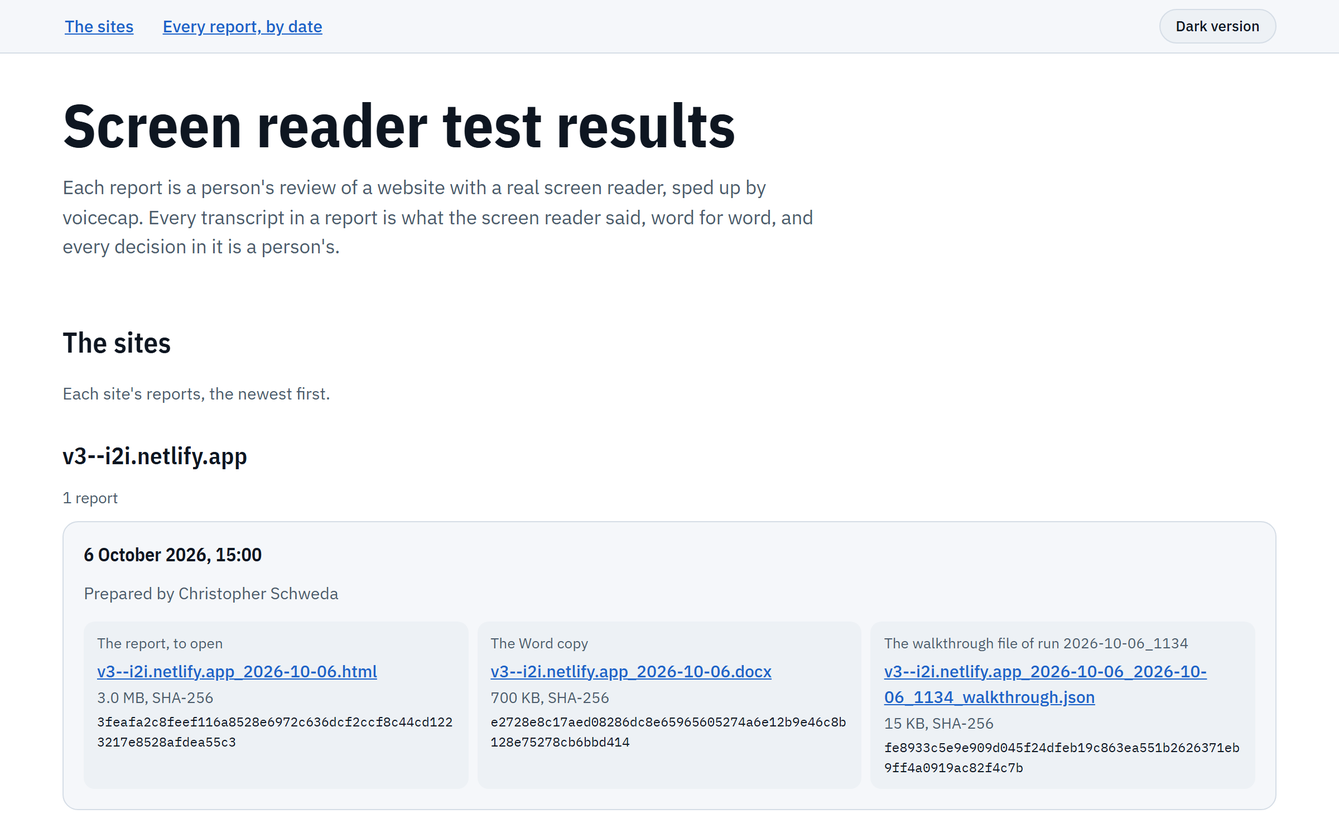
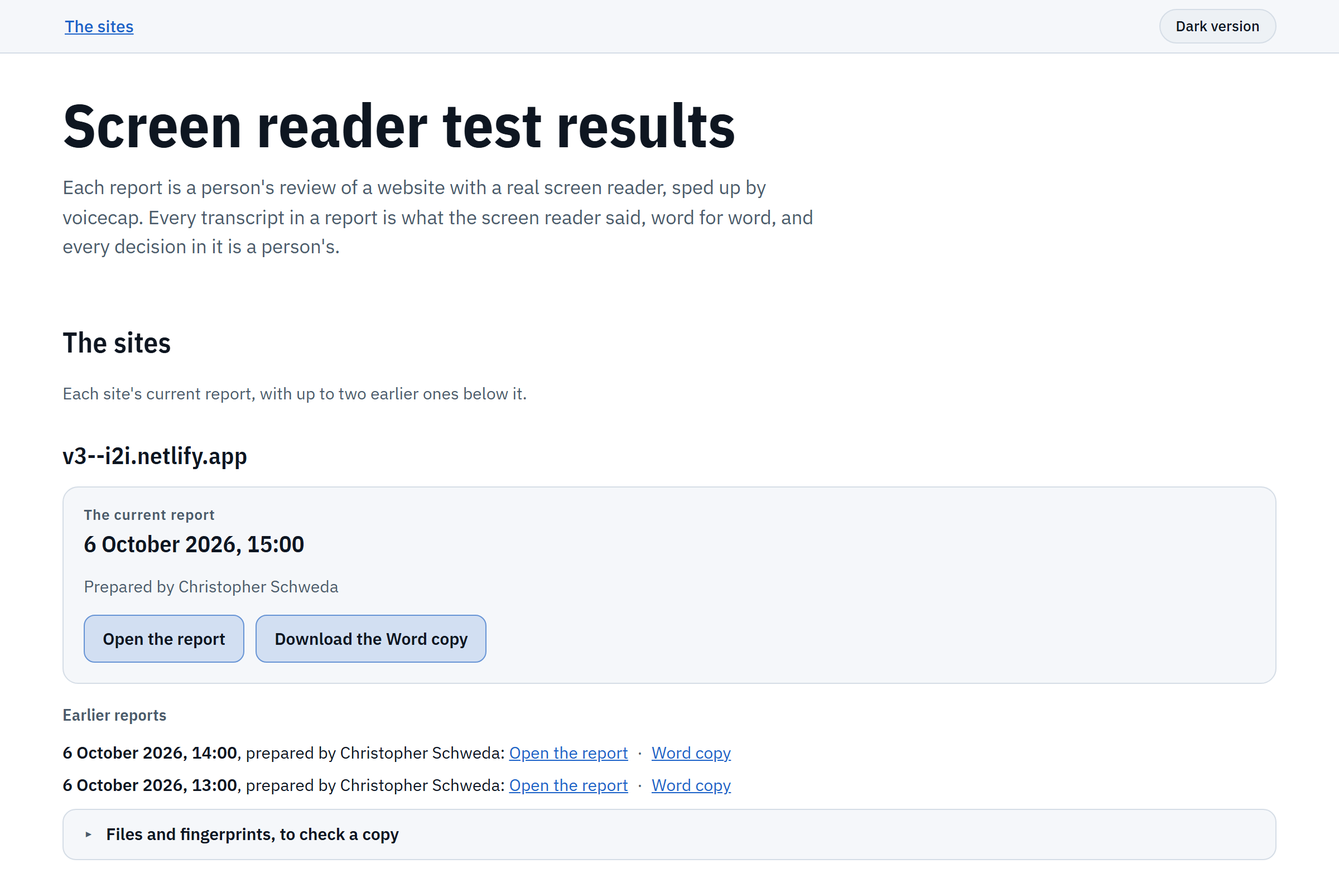
Describe the website's newest three in the README, the spec, and the changelog, and draw its pictures with a current report and two earlier ones

diff --git a/scripts/readme-screenshots.ts b/scripts/readme-screenshots.ts
@@ -19,7 +19,8 @@
  *                            first row with no card for a /biographies/ page (see BIOGRAPHIES)
  *   report-timeline.png      the run's evidence, with its minute-by-minute timeline open
  *   report-fingerprints.png  the fingerprint check, after it has run
- *   website-dark.png         the website's bar, through the site's report under "The sites", dark
+ *   website-dark.png         the website's bar, through the site under "The sites": its current
+ *                            report, its two earlier ones, and its fold of files, closed, dark
  *   website-light.png        the same, light
  *
  * No shot may show an IP address or `localhost`: before each one is taken, the text inside the part
@@ -30,9 +31,9 @@
  *
  * It draws with Playwright's Chromium (`pnpm exec playwright install chromium`, once). Run it again
  * when the page's or the site's design changes, and commit what it writes. The README links to each
- * file on GitHub, so npm's copy of the README shows them too. The six of the report come out the
- * same every time. The two of the website don't: each run makes the Word copy again, whose bytes
- * differ (it records when it was made), and the website shows its fingerprint.
+ * file on GitHub, so npm's copy of the README shows them too. All eight come out the same every
+ * time. Each run makes the Word copies again, whose bytes differ (each records when it was made),
+ * but the website shows their fingerprints only in its fold of files, which is closed in its shots.
  */
 import { copyFile, cp, mkdir, mkdtemp, rm } from "node:fs/promises";
 import os from "node:os";
@@ -58,12 +59,18 @@ export const SCREENSHOTS_DIR = path.join(ROOT, "assets", "screenshots");
 export const SOURCE_HOME = path.join(ROOT, "fixture", "i2i-v3-run");
 /**
  * When the pictures show the report as shared: 6 October 2026 at 15:00, a local time, so it's that
- * day anywhere, after the run ended (at 12:32). It's fixed: every share the script makes has it, so
- * the six pictures of the report come out the same each time. The two of the website still differ
- * with each run, since the Word copy's fingerprint does (see above). It isn't when anyone really
- * shared the report.
+ * day anywhere, after the run ended (at 12:32). It's fixed, so the pictures come out the same each
+ * time. It isn't when anyone really shared the report. It's the last of the script's three shares
+ * (see SHARED_BEFORE), so the shared page is the third of the day, named "-3": no picture of the
+ * report shows its name.
  */
 const SHARED_ON = new Date(2026, 9, 6, 15, 0);
+/**
+ * The two shares before it, at 13:00 and 14:00 that day, so that the website shows what a site that
+ * has been shared a few times shows: its current report, and two earlier ones, a line each. They're
+ * fixed too, and aren't when anyone really shared the report.
+ */
+const SHARED_BEFORE = [new Date(2026, 9, 6, 13, 0), new Date(2026, 9, 6, 14, 0)];
 /** Who shares it: the person who ran the review, as the run's record names them. */
 const SHARED_BY = "Christopher Schweda";
 
@@ -130,9 +137,10 @@ function shareConfig(): LoadedConfig {
 
 /**
  * A transcripts home with the report of the run in `source` shared in it, as a person would share
- * it: a copy of `source` (a home with one site's folder, which isn't changed), and the share made in
- * the copy's site folder. A site whose run recorded no canonical address and was read at an IP
- * address isn't shared: voicecap refuses it. Returns the home and the shared page's path.
+ * it: a copy of `source` (a home with one site's folder, which isn't changed), and three shares made
+ * in the copy's site folder, at SHARED_BEFORE's times and then at SHARED_ON. A site whose run
+ * recorded no canonical address and was read at an IP address isn't shared: voicecap refuses it.
+ * Returns the home and the path of the last share's page, which the shots of the report are of.
  */
 export async function sharedHome(
   root: string,
@@ -140,16 +148,19 @@ export async function sharedHome(
 ): Promise<{ home: string; page: string }> {
   const home = path.join(root, "transcripts");
   await cp(source, home, { recursive: true });
-  const shared = await shareReport({
-    out: home,
-    reviewer: SHARED_BY,
-    now: SHARED_ON,
-    config: shareConfig(),
-    logger: silentLogger,
-    // The folder the home is in has no config, and no environment is read.
-    cwd: root,
-    env: {},
-  });
+  const share = (now: Date) =>
+    shareReport({
+      out: home,
+      reviewer: SHARED_BY,
+      now,
+      config: shareConfig(),
+      logger: silentLogger,
+      // The folder the home is in has no config, and no environment is read.
+      cwd: root,
+      env: {},
+    });
+  for (const now of SHARED_BEFORE) await share(now);
+  const shared = await share(SHARED_ON);
   const page = shared.files.find((file) => file.name.endsWith(".html"));
   if (page === undefined) throw new Error("voicecap share wrote no page.");
   return { home, page: page.path };

diff --git a/README.md b/README.md
@@ -56,7 +56,7 @@ voicecap speeds up that second half. It presses NVDA's keys the way a person wou
 - **Every page on the list, three ways.** voicecap goes line by line, heading by heading, and control by control, as a blind visitor moves through a page. No page on the list is missed or done twice.
 - **A person's review, on the record.** What the person found and fixed is recorded beside the transcripts, with their own hands-on NVDA sessions.
 - **A record anyone can check.** Each transcript has a fingerprint and each finished run is sealed, so `voicecap verify` flags any recorded file that has changed (see [Checking the record](#checking-the-record-voicecap-verify)).
-- **Results for people who never open a terminal.** There's a plain-language web page and its Word copy, dated copies to send with their fingerprints, and a website of every shared report (see [The shareable page](#the-shareable-page)).
+- **Results for people who never open a terminal.** There's a plain-language web page and its Word copy, dated copies to send with their fingerprints, and a website that leads with each site's current report (see [The shareable page](#the-shareable-page)).
 - **Repeatable.** Comparing two runs shows what changed after an update. A walkthrough file repeats a run, with the same pages in the same order and the same passes, then says page by page how each page sounds against the original (see [Repeating a run](#repeating-a-run-the-walkthrough-file)).
 
 To see it at work before you use it on your own site, try the guided demo on a Windows PC (see [Try it first](#try-it-first-npx-icjiavoicecap-demo)).
@@ -1432,7 +1432,7 @@ To paste into the email that sends the page and its Word copy:
 
 **It needs a name, and a run that counts.** It takes the name of who is sharing as `review` does: `--reviewer`, then `VOICECAP_REVIEWER`, then `git config user.name`, then `reviewer` in the config. With none, it stops. It also stops when no completed, sealed, live run is there to show (a replayed, interrupted, or unsealed run doesn't count: see [The shareable page](#the-shareable-page)), and when it can't read `shares.json`. In each case it writes nothing and exits with code 1, and it never overwrites a `shares.json` it can't use.
 
-**It needs the site's name, too.** A share is recorded for good, and the website publishes every one, so `voicecap share` won't name a site by an IP address or a local address. When a site has no canonical address (see [A site's name: its canonical address](#a-sites-name-its-canonical-address)) and voicecap read it at such an address, as on a copy at `localhost`, the share stops before it writes anything, exits with code 1, and says how to name it:
+**It needs the site's name, too.** A share is recorded for good, and the website publishes each site's newest three, so `voicecap share` won't name a site by an IP address or a local address. When a site has no canonical address (see [A site's name: its canonical address](#a-sites-name-its-canonical-address)) and voicecap read it at such an address, as on a copy at `localhost`, the share stops before it writes anything, exits with code 1, and says how to name it:
 
 ```
 Error: voicecap won't share a site by an IP address or a local address (127.0.0.1:4848). Give it the address people visit: set report.canonical in a voicecap config in a folder of the site's own, and share from that folder; or run it again with --canonical <address>.
@@ -1459,7 +1459,7 @@ The dated copies, the walkthrough files, and `shares.json` go into Git with the 
 
 ## The website: `voicecap site`
 
-`voicecap site` builds a website of every report voicecap has shared, by site and by date, with the demo. It gives people one address to open, in place of a file to send. Netlify can build it from the transcripts home's repository every time the repository is pushed. voicecap's own repository stays code only.
+`voicecap site` builds a website of the reports voicecap has shared: each site's current report, with the two before it, and the demo's. It gives people one address to open, in place of a file to send. Netlify can build it from the transcripts home's repository every time the repository is pushed. voicecap's own repository stays code only.
 
 ```bash
 npx @icjia/voicecap site [--home <dir>] [--out <dir>]
@@ -1467,17 +1467,19 @@ npx @icjia/voicecap site [--home <dir>] [--out <dir>]
 
 `--home` is the transcripts home, and `--out` is the folder to build the site in: `_site` in the home, by default. Here `--out` isn't the home, as it is in the other commands (see [Other commands](#other-commands)). The command needs no screen reader.
 
-**What's on the site,** in three views, with a bar of links to them:
+**What's on the site,** in up to three views, with a bar of links to them:
 
 - **The demo:** voicecap's report on its own small demo site, as an example of what it makes. It's there only when the home has a share of the demo (see [Publishing it, and the demo](#publishing-it-and-the-demo)). Its lead links to the demo's own pages, the ones NVDA read. Every build publishes them in `demo-site/`, so on ICJIA's site they're at [voicecap.netlify.app/demo-site/](https://voicecap.netlify.app/demo-site/), the demo's canonical address.
-- **The sites:** each site, headed by its canonical name (such as `dvfr.illinois.gov`, from its newest share), with its reports, the newest first. Folders whose shares name one site are one site, with their reports together. A site whose shares name no canonical address is headed by its folder's name (see [A site's name: its canonical address](#a-sites-name-its-canonical-address)). When that name is an IP address or a local address, as for a copy's folder shared before 0.10.0, the build still publishes the site, and warns, such as `127.0.0.1_4848: headed by its folder's name, an IP address or a local address. Share it again with its canonical address (see report.canonical) to name it.` A new share names it, and from then on the site is headed by its canonical name.
-- **Every report, by date:** every site's reports, the newest first, each with its site's name and a link to its page. The demo isn't in it: it's an example, not a site.
+- **The sites:** each site, headed by its canonical name (such as `dvfr.illinois.gov`, from its newest share), with its newest three reports, the newest first. Folders whose shares name one site are one site, with their reports together. A site whose shares name no canonical address is headed by its folder's name (see [A site's name: its canonical address](#a-sites-name-its-canonical-address)). When that name is an IP address or a local address, as for a copy's folder shared before 0.10.0, the build still publishes the site, and warns, such as `127.0.0.1_4848: headed by its folder's name, an IP address or a local address. Share it again with its canonical address (see report.canonical) to name it.` A new share names it, and from then on the site is headed by its canonical name.
+- **Every report, by date:** every site's reports, the newest first, each with its site's name and a link to its page. It's there only when two sites or more have reports: with one, it would be that site's own list again. The demo isn't in it: it's an example, not a site.
 
-Each report shows when it was shared and who prepared it, then its files: the page, to open; and its Word copy and the walkthrough file of each run it draws on, to download. Each file shows its size and its SHA-256 fingerprint, as `shares.json` recorded them. To check a copy against its fingerprint, run `Get-FileHash <file>` in PowerShell, or `shasum -a 256 <file>` on a Mac. A report shared before voicecap shared walkthrough files says that none was shared with it.
+**A site leads with its current report,** its newest: when it was shared, who prepared it, and two links, to open its page and to download its Word copy. A manager who opens the site finds what they came for first. Under it, the site's earlier reports, two at most, are a line each, with the same two links. A screen reader hears each link with the site's name and the report's date after its words, such as "Open the report of dvfr.illinois.gov, 3 October 2026, 14:05", so no two links on the page sound alike.
 
-Here is the top of the site for the i2i report, in the dark theme it opens in, then in the light one a reader can pick. The bar links to "The sites" and "Every report, by date", and holds the button that switches themes. (It links to "The demo" too, when the home has a share of the demo.) Under "The sites" is `v3--i2i.netlify.app`, with its one report, shown as shared on 6 October 2026 at 15:00 and prepared by Christopher Schweda. (That day and time are fixed: the script that makes these pictures gives every share the same ones, so the six pictures of the report come out the same each time. These two pictures of the website still differ with each run, since the Word copy's fingerprint does. The day and time aren't taken from when the report was really shared.) The report lists its page to open, its Word copy, and the walkthrough file of the one run it draws on, each with its size and SHA-256 fingerprint.
+**Every file, with its fingerprint, is in a fold,** closed, under the site's reports: "Files and fingerprints, to check a copy". It's for whoever checks a copy. For each report, it lists the page, the Word copy, and the walkthrough file of each run the report draws on, each with its size and its SHA-256 fingerprint, as `shares.json` recorded them. To check a copy against its fingerprint, run `Get-FileHash <file>` in PowerShell, or `shasum -a 256 <file>` on a Mac. A report shared before voicecap shared walkthrough files says that none was shared with it.
 
-![The website in its dark theme, from its bar through the i2i report under "The sites": the bar's links (The sites, Every report, by date) and its "Light version" button, the heading "Screen reader test results", the site v3--i2i.netlify.app with "1 report", and the report, "6 October 2026, 15:00" (a fixed time that the script that makes the picture gives every share), prepared by Christopher Schweda, with its three files (the report, its Word copy, and the run's walkthrough file), each with its size and fingerprint.](https://raw.githubusercontent.com/ICJIA/voicecap/main/assets/screenshots/website-dark.png)
+Here is the top of the site for the i2i report, in the dark theme it opens in, then in the light one a reader can pick. The bar links to "The sites", and holds the button that switches themes. (It links to "The demo" too, when the home has a share of the demo, and to "Every report, by date" when two sites or more have reports.) Under "The sites" is `v3--i2i.netlify.app`. Its current report was shared on 6 October 2026 at 15:00 by Christopher Schweda, with its two buttons, "Open the report" and "Download the Word copy". Under it are its two earlier reports, shared at 14:00 and 13:00, a line each, and last the fold of files and fingerprints, closed. (Those times are fixed: the script that makes these pictures shares the report three times that day, at the same times each run, so all eight pictures come out the same each time. They aren't when the report was really shared.)
+
+![The website in its dark theme, from its bar through the i2i site under "The sites": the bar's one link (The sites) and its "Light version" button; the heading "Screen reader test results" and its lead; the sites' lead, "Each site's current report, with up to two earlier ones below it."; the site v3--i2i.netlify.app; a panel labeled "The current report", "6 October 2026, 15:00" (a fixed time that the script that makes the picture gives that share), "Prepared by Christopher Schweda", and two buttons, "Open the report" and "Download the Word copy"; "Earlier reports", with two lines, "6 October 2026, 14:00, prepared by Christopher Schweda: Open the report · Word copy" and the same at 13:00; and a closed fold, "Files and fingerprints, to check a copy".](https://raw.githubusercontent.com/ICJIA/voicecap/main/assets/screenshots/website-dark.png)
 
 ![The same part of the website in its light theme, after the reader picks "Light version". The button now reads "Dark version".](https://raw.githubusercontent.com/ICJIA/voicecap/main/assets/screenshots/website-light.png)
 
@@ -1485,7 +1487,7 @@ The site's page follows the shareable page's rules. It's one self-contained file
 
 **Everything on the website is public to anyone with its address.** Anyone can open each report, and download each Word copy and walkthrough file. `robots.txt` and a header ask search engines to keep the site out of their results, but that's a request, not a lock. Keep the transcripts repository private: the website holds only what was shared, and the repository holds much more. Read "Before you send it", under [The shareable page](#the-shareable-page), and share only what you'd put on a public page.
 
-**A share is never deleted, so the site shows every one,** as long as its record is intact. voicecap has no command that takes a report off the site.
+**The site shows each site's newest three shares,** as long as their records are intact. The current report is what matters, and a long list of older ones would bury it. A share is never deleted: its entry and its files stay in the transcripts home, and `voicecap verify` still checks them. Only the website leaves an older one out. Its files aren't published, and the address of its page sends a reader on to the site's current report, so a link to it in an email still leads somewhere (see `_redirects`, under [The files it writes, and the headers](#the-files-it-writes-and-the-headers)). voicecap has no command that takes a report off the site.
 
 ### What the build reads, and what it leaves out
 
@@ -1494,14 +1496,16 @@ The site's page follows the shareable page's rules. It's one self-contained file
 
 **What it reads:** only the record of what was shared. That's each site folder's `share/shares.json`, and the latest share in the home's `voicecap-demo/` folder, which it publishes under `demo/`. It never reads a run. Beside the records, it copies the demo site's own pages from voicecap itself, into `demo-site/` (see [The files it writes, and the headers](#the-files-it-writes-and-the-headers)).
 
-**What it publishes:** each file that an entry names, when the entry's seal still holds and the file is still a regular file whose size and SHA-256 are the recorded ones. It copies the file byte for byte, so a file on the site is exactly the file that was shared, and its fingerprint matches.
+**What it publishes:** each file that an entry names, when the entry is one of its site's newest three, its seal still holds, and the file is still a regular file whose size and SHA-256 are the recorded ones. It copies the file byte for byte, so a file on the site is exactly the file that was shared, and its fingerprint matches.
+
+**A site's older shares,** beyond its newest three, aren't published, and their files aren't read. That's no warning. The build says it as what it did, such as `dvfr.illinois.gov: 2 older reports aren't on the site, which shows each site's newest 3.` The newest three are counted across all of a site's folders.
 
 **What it leaves out, and names.** Each is a warning in the build's output, such as `Warning: dvfr.illinois.gov/share/dvfr.illinois.gov_2026-10-02.docx: not published: the file is missing`. The build still finishes, with exit code 0, so one changed file doesn't stop every later update.
 
 - **An entry whose seal no longer holds,** or whose fields aren't what voicecap records, and a `shares.json` that can't be read. The site shows nothing of it. Only the build's output names it.
 - **A copy that has changed since it was shared, is missing, can't be read, or isn't a regular file** (a link or a folder, say). The report's other files are still published, and under the report the site says that `<name> isn't here`, and why.
 - **A name voicecap never gives.** Only files whose names end in a lower-case `.html`, `.docx`, or `.json` are published, and only when they and their folder are named as voicecap names them: letters, digits, `.`, `_`, and `-` (lower case for a site's folder), with no dot at the start or end of a file's name. A file named `index.html` is left out too, since Netlify would serve it at its site folder's own address, where it would have no Content Security Policy. A name that holds a path, such as `../notes.txt`, is never read.
-- **A site folder named `demo`,** which would take the demo's place on the site. One named `demo-site`, `index.html`, `robots.txt`, or `_headers` is left out too: it would take the place of the site's own folder or file.
+- **A site folder named `demo`,** which would take the demo's place on the site. One named `demo-site`, `index.html`, `robots.txt`, `_headers`, or `_redirects` is left out too: it would take the place of the site's own folder or file.
 - **A `voicecap-demo` that isn't a folder.** Git for Windows checks a committed link out as a plain file, so a file can be where the folder should be. The site is built without a demo.
 
 **The folder it builds into** is emptied first, so voicecap builds only into a folder it can be sure of. That's a folder that's new or empty, or one an earlier build made: its `_headers` starts with voicecap's own line.
@@ -1532,6 +1536,7 @@ Error: voicecap site won't build into C:\Users\cschw\code\voicecap-transcripts\n
   - Each of the demo's own pages gets a policy of its own, at every address it answers at: `default-src 'none'; style-src 'self'; img-src 'self' data:; form-action 'self'; base-uri 'none'; frame-ancestors 'none'`. The pages have a style sheet beside them and a form that goes to a page of their own, and no script.
   - Each Word copy and walkthrough file gets `Content-Disposition: attachment`, so a browser downloads it.
   - Its first line, `# Made by voicecap site. Each build empties this folder and writes it again.`, is how a later build knows the folder is one it made.
+- **`_redirects`:** Netlify's file of redirects. The page of each share the site no longer shows (each site's shares beyond its newest three) sends its reader on to the site's current report, with a 302: at the page's own address, and at the same without `.html`, which is how Netlify serves a page too. A browser doesn't keep a 302, as it would a 301, so the next build can send the address on to a newer report. When the current report's page isn't published, it sends them to the site's front page instead. Netlify follows a rule only where no file is published, so an address a newer share publishes is never sent on. The file's first line is a comment that says what it's for, and when every share is on the site, it's the only line.
 
 **In the home,** the first time, and never again. `voicecap site` never writes over any of these files, so they're yours once they're there:
 
@@ -1919,7 +1924,7 @@ The run's records have new, optional fields from 0.10.0, which leave code that r
 
 The run's records have more new, optional fields from 0.11.0, which leave code that reads them as it was: `RunJson.files`, the files a run records beside its pages' (today, `events.jsonl`, the event log), each a `FileHash`; `PageRecord.screenshot`, a `ScreenshotRecord`, which is the screenshot file's `FileHash` with `takenAt`, `width`, and `height`, or `{ error, takenAt }` when none could be taken; and `AttemptRecord.program`, for a `foreground` failure, the name of the program that took the screen, or `null`. A custom driver can add to the event log and take screenshots through three new, optional members, so one that leaves them out works as before: `ScreenReaderDriver.setEventRecorder(recorder)`, which a run calls with an `EventRecorder` (its `record(event, at)` takes a `NewRunEvent`, and, optionally, `at`, the `Date` it happened, for an event recorded after the fact: the log stamps it with `at` in place of the time it's recorded) before it first starts the driver; `PageInfo.screenshot`, a `PageScreenshot` (`{ jpeg }`, or `{ error }`) that `openPage` gives for a page it has loaded; and `ForegroundError`'s optional `program`, given as `{ program }` in its second argument. The types `RunEvent`, `NewRunEvent`, `RestartReason`, `EventRecorder`, `PageScreenshot`, and `ScreenshotRecord` are exported.
 
-`buildSite` builds the website as `voicecap site` does (see [The website: `voicecap site`](#the-website-voicecap-site)). It takes `home`, the transcripts home (default: `VOICECAP_TRANSCRIPTS`, else `./transcripts`), and `out`, the folder to build in (default: `_site` in the home), plus `cwd`, `env`, and `logger`, and says what it wrote and what it left out to its `logger` as the command does. It gives back `out`, the full path of the folder it built in; `content`, what it published, as a `SiteContent`; and `leftOut`, each thing it left out, worded as the build's output words it. A `SiteContent` has `demo`, a `PublishedReport` or `null`, and `sites`, each with its `name` (the heading the site shows: its canonical name, or its folder's name), its `folders` (the site folders its reports are in, more than one when folders name one site), and its `reports`, the newest first. A site had a `folder` in place of `name` and `folders`, so it's a compile-time change for code that reads one: `name` is the heading, and each of `folders` is where files are. A `PublishedReport` has its `folder`, `id` (its anchor on the page), `at`, `by`, its `files`, and `notPublished`: the files its record names that aren't published, each with its `name` and a `reason`, `"changed"` or `"missing"`. A `PublishedFile` has its `kind` (`"page"`, `"word"`, `"walkthrough"`, or `"other"`), `name`, `href`, `bytes`, `sha256`, and `run` (the run a walkthrough file is of, else `null`). A copy that has changed, or is missing, doesn't make it throw: it's left out, and named in `leftOut`. It throws a `UsageError`, before anything is changed, when the home isn't a folder, and when the folder to build in is one it mustn't empty. The types `BuildSiteOptions`, `BuildSiteResult`, `SiteContent`, `PublishedReport`, and `PublishedFile` are exported.
+`buildSite` builds the website as `voicecap site` does (see [The website: `voicecap site`](#the-website-voicecap-site)). It takes `home`, the transcripts home (default: `VOICECAP_TRANSCRIPTS`, else `./transcripts`), and `out`, the folder to build in (default: `_site` in the home), plus `cwd`, `env`, and `logger`, and says what it wrote and what it left out to its `logger` as the command does. It gives back `out`, the full path of the folder it built in; `content`, what it published, as a `SiteContent`; and `leftOut`, each thing it left out, worded as the build's output words it. A `SiteContent` has `demo`, a `PublishedReport` or `null`, and `sites`, each with its `name` (the heading the site shows: its canonical name, or its folder's name), its `folders` (the site folders its reports are in, more than one when folders name one site), and its `reports`: those it published, its newest three, the newest first. A site had a `folder` in place of `name` and `folders`, so it's a compile-time change for code that reads one: `name` is the heading, and each of `folders` is where files are. A `PublishedReport` has its `folder`, `id` (its anchor on the page), `at`, `by`, its `files`, and `notPublished`: the files its record names that aren't published, each with its `name` and a `reason`, `"changed"` or `"missing"`. A `PublishedFile` has its `kind` (`"page"`, `"word"`, `"walkthrough"`, or `"other"`), `name`, `href`, `bytes`, `sha256`, and `run` (the run a walkthrough file is of, else `null`). A copy that has changed, or is missing, doesn't make it throw: it's left out, and named in `leftOut`. It throws a `UsageError`, before anything is changed, when the home isn't a folder, and when the folder to build in is one it mustn't empty. The types `BuildSiteOptions`, `BuildSiteResult`, `SiteContent`, `PublishedReport`, and `PublishedFile` are exported.
 
 `writeWalkthrough` writes a run's walkthrough file as `voicecap walkthrough` does (see [Repeating a run: the walkthrough file](#repeating-a-run-the-walkthrough-file)), and never overwrites one. It takes `file`, plus `site`, `run`, and `out`, and `logger`, and says what it wrote to its `logger` as the command does. It gives back `file`, the full path it wrote; `runId`; and `walkthrough`, what the file holds. It throws a `UsageError`, with nothing written, when the site has no completed run, when the run named isn't there or didn't complete, when voicecap's own reader would refuse the file, and when something is at `file` already. `runAudit`'s `walkthrough` is the path of a walkthrough file to repeat: the pages, passes, step limits, capture mode, and readiness settings come from it (the config's readiness settings, when the file has none), `site` becomes optional, and `sitemap`, `pages`, `pageUrls`, `limit`, `include`, `exclude`, `passes`, and `maxSteps` are refused with it. `parseWalkthrough(text, file)` reads a walkthrough file's text as a repeat does, strictly, and gives back a `Walkthrough`, or throws a `UsageError` that names the file (`file` is its name, for that message) and says what's wrong. `walkthroughOf(run)` builds the `Walkthrough` of a completed run's record, `walkthroughJson(walkthrough)` is the text a file holds, and `walkthroughProblem(walkthrough)` is why `parseWalkthrough` would refuse a `Walkthrough`, or `null`. The types `Walkthrough`, `WalkthroughPage`, `WalkthroughSettings`, `WalkthroughOrigin`, `WriteWalkthroughOptions`, and `WriteWalkthroughResult` are exported.
 
@@ -2004,7 +2009,7 @@ Guidepup changes its API across versions and releases often, so voicecap pins `@
 | `pnpm fixture:reviews` | Rebuilds `fixture/reviews.json` from the recorded run. |
 | `pnpm share:fixture <folder>` | Writes the demo's shareable page and its Word copy into a folder, to look at a change to either. The demo is named by its canonical address, as a share of it is. Needs no screen reader. |
 | `pnpm site:fixture <folder>` | Builds the website from the demo fixture, to look at a change to it: makes a transcripts home with reports shared in it at `<folder>/home` (which must not be there yet), builds the site in `<folder>/_site`, and prints the path of its `index.html`. Needs no screen reader. |
-| `pnpm readme:screenshots [folder]` | Makes the README's eight screenshots, of the shareable page for the i2i v3 run of 6 October 2026 (kept in `fixture/i2i-v3-run`) and of the website built from its report, in `assets/screenshots` (or the folder given), from a temporary home. The report is shown as shared on a fixed day and time, 6 October 2026 at 15:00, which the script gives every share so that the six pictures of the report come out the same each time; the two of the website still differ with each run, since the Word copy's fingerprint does. The day and time aren't taken from when the report was really shared. Needs Playwright's Chromium, and no screen reader. It refuses to write a shot that shows an IP address or `localhost`. Run it when the page's or the site's design changes, and commit what it writes. |
+| `pnpm readme:screenshots [folder]` | Makes the README's eight screenshots, of the shareable page for the i2i v3 run of 6 October 2026 (kept in `fixture/i2i-v3-run`) and of the website built from its report, in `assets/screenshots` (or the folder given), from a temporary home. The report is shown as shared three times on a fixed day, 6 October 2026, at 13:00, 14:00, and 15:00, so that the website shows a current report and two earlier ones, and all eight pictures come out the same each time. The day and times aren't taken from when the report was really shared. Needs Playwright's Chromium, and no screen reader. It refuses to write a shot that shows an IP address or `localhost`. Run it when the page's or the site's design changes, and commit what it writes. |
 
 `fixture/` holds the test site (with a deliberately flawed page and a page that tests end-of-page detection), sitemaps, page lists (including CRLF and Windows-1252 CSVs), a sample `reviews.json`, a real Speech Viewer capture, an NVDA log excerpt, a run recorded with real NVDA that the replay driver plays back, and the i2i v3 run that the README's screenshots are made from; see `fixture/README.md`. CI runs lint, type checks, and tests on Ubuntu, macOS, and Windows (the tests use the replay driver and Playwright's Chromium; the real-NVDA checks run locally with `pnpm test:nvda`).
 

diff --git a/docs/superpowers/specs/2026-09-30-shareable-report-design.md b/docs/superpowers/specs/2026-09-30-shareable-report-design.md
@@ -451,22 +451,26 @@ In the site's folder of the transcripts home:
 
 ## The website
 
-A public site the owner can point anyone to, https://voicecap.netlify.app (approved 2026-09-30, as `icjia-voicecap.netlify.app`; named `voicecap` at the first deploy, 2026-10-04): every report voicecap has shared, by site and by date, with the demo. It's ICJIA's own site, not a setting for everyone who downloads voicecap. Netlify builds it from ICJIA's transcripts repository (github.com/ICJIA/voicecap-transcripts, private), the transcripts home, on every push. voicecap's own repository stays code only.
+A public site the owner can point anyone to, https://voicecap.netlify.app (approved 2026-09-30, as `icjia-voicecap.netlify.app`; named `voicecap` at the first deploy, 2026-10-04): each site's newest reports voicecap has shared, with the demo. It's ICJIA's own site, not a setting for everyone who downloads voicecap. Netlify builds it from ICJIA's transcripts repository (github.com/ICJIA/voicecap-transcripts, private), the transcripts home, on every push. voicecap's own repository stays code only.
 
 - **What's on it:**
   - the demo's latest report, as an example of what voicecap makes;
-  - each site, with its newest report on top and its earlier ones below;
-  - every report by date, across sites.
-
-  Each report lists its date, who prepared it, and its files: the page to open, and the Word copy and the walkthrough file to download, so anyone can repeat the run exactly (see "Repeating a walkthrough"). Each file shows its size and SHA-256 fingerprint, a second place to check a copy against.
+  - each site, with its current report on top, its earlier ones below, and their files in a fold;
+  - every report by date, across sites, when two sites or more have reports. With one, it would be that site's own list again.
 
   Each site is headed by its canonical name, from its newest share's `site` (see "Canonical names"), and the list by date names it the same way. Site folders whose shares name the same site, such as a copy on a tester's computer and the site itself, are one site there, their reports together, the newest first. A share from before 0.10.0 names its site by its folder.
+- **Each site's newest three shares, and no more** (amended 2026-10-07, for 0.12.2, at the owner's request: "the only report that matters is the current one", "the most recent 3 is all that's needed", and "condense them so it's not so visually overwhelming"). The site showed every share, each with all its files and fingerprints in full, so a manager met a wall of file names before anything they came for.
+  - **The current report,** a site's newest, leads: a heading that says it's the current report, with its date; who prepared it; and two links, styled as buttons, to open its page and to download its Word copy. A screen reader hears the site's name and the report's date after each link's words ("Open the report of dvfr.illinois.gov, 3 October 2026, 14:05"), so no two links on the page sound alike. A page or a Word copy that isn't published has its "isn't here" line in place of its link.
+  - **Its earlier reports,** two at most, are a line each under a heading of their own: the date, who prepared it, and the same two links, set apart by a dot a screen reader doesn't read.
+  - **A fold, closed, "Files and fingerprints, to check a copy",** comes last: for each report, the newest first, its date and who prepared it, then its files (the page, the Word copy, and the walkthrough file of each run), each with its size and SHA-256 fingerprint, a second place to check a copy against; what isn't here; and when no walkthrough file was shared. Anyone can repeat a run exactly from its walkthrough file (see "Repeating a walkthrough"). The fold works without JavaScript.
+  - **Older shares** are counted across all of a site's folders. They stay in the records, and `voicecap verify` checks them as before; only the website leaves them out. Their files aren't published or read, and the build says how many it left off, as information, not as a warning.
+  - **An older share's page still leads somewhere.** `_redirects` sends its address, and the same without ".html", on to the site's current report with a 302, which a browser doesn't keep, since the current report changes with each share; or to the front page, when the current report's page isn't published. Netlify follows a rule only where no file is published, so no address a newer share publishes is ever sent on. Its Word copy and walkthrough files are simply gone.
 - **The demo's own pages:** each build publishes the pages of voicecap's demo site, from the voicecap that builds it, under `demo-site/`, so the demo's canonical address, `https://voicecap.netlify.app/demo-site/`, leads to them. They get their own Content Security Policy (their style sheet and their form are their own, and nothing else loads), and the demo's view links to them.
-- **How it looks:** the report's design, dark by default with a light toggle, sleek, with a bar that stays in view for the three views: the demo, the sites, and every report by date.
+- **How it looks:** the report's design, dark by default with a light toggle, sleek, with a bar that stays in view for the views: the demo, the sites, and every report by date, each when it's there.
 - **`voicecap site [--home <dir>] [--out <dir>]`** builds it:
   - from each site folder's `share/shares.json` in the transcripts home (`--home`, default: the home in effect): the dated copies, sealed and fingerprinted. A copy that no longer matches its fingerprint is left out, and named;
   - from the demo's shared copies, when the home has a `voicecap-demo/` folder (run `voicecap demo` from the home's folder);
-  - into `--out` (default `_site` in the home, which the home's `.gitignore` keeps out of Git): `index.html`, each report's files under `<site>/`, `robots.txt`, and `_headers`.
+  - into `--out` (default `_site` in the home, which the home's `.gitignore` keeps out of Git): `index.html`, each report's files under `<site>/`, `robots.txt`, `_headers`, and `_redirects`.
 
   The published files are byte for byte the shared copies, so their fingerprints still match. Everything the site adds goes in headers, never into those files.
 - **Publishing:** after `voicecap share`, commit the transcripts home and push. Netlify runs `voicecap site` and publishes what it builds. To preview first, run `voicecap site` and open `_site/index.html`.
@@ -475,6 +479,7 @@ A public site the owner can point anyone to, https://voicecap.netlify.app (appro
   - `netlify.toml`: the build, `npx --yes @icjia/voicecap@<the minor version that wrote it> site --home . --out _site`, and `publish = "_site"`; then headers for every file: `X-Robots-Tag: noindex, nofollow, noarchive`, `Referrer-Policy: no-referrer`, `X-Content-Type-Options: nosniff`, `X-Frame-Options: DENY`, a `Permissions-Policy` that turns off the camera, microphone, geolocation, payment, and USB, `Strict-Transport-Security: max-age=63072000; includeSubDomains`, `Cross-Origin-Opener-Policy: same-origin`, and `Cross-Origin-Resource-Policy: same-origin`; and `Content-Disposition: attachment` for `.docx` and `.json` files. To build the site with a newer voicecap, change the version in the build command.
   - `.nvmrc`: `24`, so Netlify's build uses Node 24 and its bundled npm.
   - Each build writes `_site/robots.txt`: `User-agent: *`, then `Disallow: /`.
+  - Each build writes `_site/_redirects`: a comment, then a line for each address of an older share's page, `<address> <the current report's page, or /> 302` (see "Each site's newest three shares, and no more").
   - Each build writes `_site/_headers`: each page's Content Security Policy, `default-src 'none'; script-src 'sha256-…'; style-src 'sha256-…'; img-src data:; font-src data:; connect-src 'none'; base-uri 'none'; form-action 'none'; frame-ancestors 'none'`, with the hashes of that page's own scripts and style block. Each page was made by its own voicecap version, so each gets its own. For this to work, a page has no inline style attributes, only its one style block.
 - **Search:** `robots.txt` and the noindex header keep the site out of search results. The transcripts repository is private, so the reports aren't on GitHub for anyone to find.
 - **The first deploy,** once a voicecap with `voicecap site` is released and the home holds a shared report: in Netlify, import `ICJIA/voicecap-transcripts` from GitHub, and name the site `voicecap` (it was, on 2026-10-04: https://voicecap.netlify.app). `netlify.toml` sets the rest. Netlify builds from an organization's private repository only on its Pro or Enterprise plan; the owner's Netlify team is on Pro (confirmed 2026-10-04).

diff --git a/CHANGELOG.md b/CHANGELOG.md
@@ -4,6 +4,17 @@ All notable changes to voicecap are recorded here. The format follows [Keep a Ch
 
 ## [Unreleased]
 
+### Changed
+
+- **The website shows each site's newest three reports, and leads with the current one.** It showed every report, each with all its files and their fingerprints in full, then every report again by date: a lot to take in before anything a manager came for. The README's "The website: `voicecap site`" describes it.
+  - **A site's current report leads:** its date, who prepared it, and two links, styled as buttons, to open its page and to download its Word copy. A screen reader hears each link with the site's name and the report's date after its words ("Open the report of dvfr.illinois.gov, 3 October 2026, 14:05"), so no two links on the page sound alike.
+  - **Its earlier reports, two at most, are a line each,** with the same two links.
+  - **Every report's files, with their sizes and fingerprints, are in a fold,** closed: "Files and fingerprints, to check a copy", for whoever checks a copy.
+  - **"Every report, by date" is there only when two sites or more have reports.** With one, it was that site's own list again. A site's count of its reports is gone too.
+  - **Older shares stay in the records,** and `voicecap verify` checks them as before: only the website leaves them out. Their files aren't published or read, and the build says how many it left off, such as `dvfr.illinois.gov: 2 older reports aren't on the site, which shows each site's newest 3.` The newest three are counted across all of a site's folders.
+  - **An older report's page still leads somewhere.** The build writes `_redirects`, Netlify's file of redirects. Each older report's page, at its address with `.html` and without, sends its reader on to the site's current report with a 302, which a browser doesn't keep, or to the front page when the current report's page isn't published. Its Word copy and walkthrough files are simply gone. A site folder named `_redirects` is left out, as one named `_headers` is.
+  - Shared reports don't change: only the website's own page does. Netlify builds with the newest 0.12.x, so the website's next build has it, with no change to `netlify.toml`.
+
 ## [0.12.1] - 2026-10-07
 
 ### Changed
